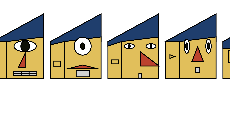
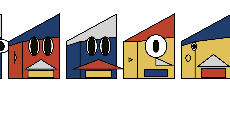
added colour randomisation

diff --git a/face_code.js b/face_code.js
@@ -56,10 +56,11 @@ const yellow=[225,191,91];
 const blue=[31,62,109];
 const black=[15,17,7];
 const grey=[211,211,209];
-const white=[255,255,255]
+const white=[255,255,255];
 const myBgCol=white;
 class Face{
   colourList=[red,yellow,blue,grey];
+  
   headHeight=8;
   headWidth=8; 
   
@@ -71,7 +72,7 @@ class Face{
   
   sideBurnHeight=0;
   noseX=0;
-  eyeBallCol=255;
+  eyeBallCol=white;
   eyeCentreCol=black;
   eyeY=-3;
   mouthColour=grey;
@@ -81,6 +82,11 @@ class Face{
   noseCol=red;
   
   constructor(){
+    this.colourList.sort(() => Math.random() - 0.5);//shuffles the array
+    this.noseCol=this.colourList[0];
+    this.mouthColour=this.colourList[1];
+    this.skinColour=this.colourList[2];
+    this.hairColour=this.colourList[3];
     this.faceX=0;
     this.sideBurn=sideBurns[Math.floor(Math.random() * sideBurns.length)];
     if(this.sideBurn!="none"){

diff --git a/README.md b/README.md
@@ -1,1 +1,1 @@
-I have added colours in the style of the De Stijl art movement.  
+added a colour shuffling array where it picks the the colour of the skin,nose,mouth and hair out of a list where these are all different. 
